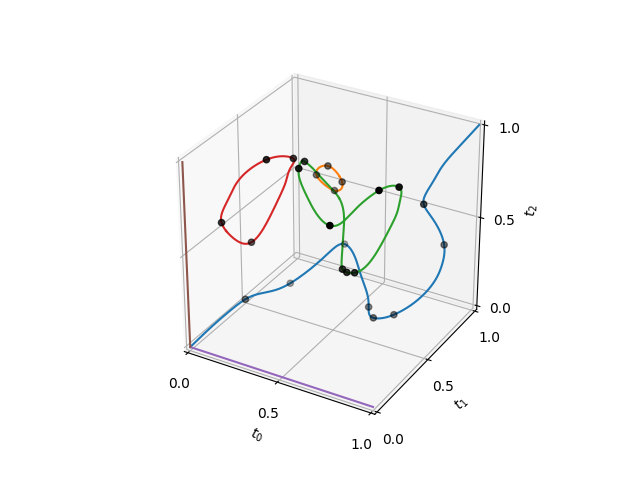
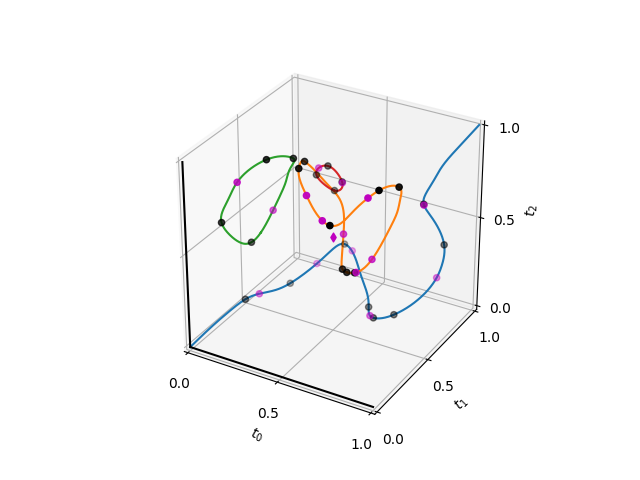
Add findCritFromPoint function and update related analysis and test files

diff --git a/src/curveCoupling/curveCoupling_Analysis/curveCouplingAnalysis.py b/src/curveCoupling/curveCoupling_Analysis/curveCouplingAnalysis.py
@@ -514,6 +514,88 @@ def findCritAlongDir(prb: curveCouplingProblem,
 
     return critPoints
 
+def findCritFromPoint(prb: curveCouplingProblem,
+                     t0: np.ndarray,
+                     iter_points: int = 10,
+                     tol: float = 1e-2) -> Tuple[np.ndarray, np.ndarray]:
+    """
+    Find criticial points along a given direction.
+
+    Args:
+        prb (curveCouplingProblem): The curve coupling problem instance.
+        iter_points (int): Number of iteration points.
+        tol (float): Tolerance.
+
+    Returns:
+        Tuple[np.ndarray, np.ndarray]: Found singularities and their outputs.
+    """
+
+    array_params = np.linspace(0.0, 1.0, iter_points)
+    combinations = itertools.product(range(iter_points), repeat=prb.numCurves)
+    N = prb.numCurves
+
+    def f_opt(x, return_jac=True):
+        if len(x) != 2*N:
+            raise ValueError(
+                f"The input should have length {2*N}, but got {len(x)}")
+
+        t = x[:N]
+        v = x[N:]
+
+        err = prb.computeConstraint(t)
+        jac = prb.computeConstraintJac(t)
+
+        y = np.concatenate(
+            [err, np.dot(jac, v), [np.dot(t-t0, v), np.sum(v**2)-1]])
+        if not return_jac:
+            return y
+
+        jac2 = prb.computeConstraintJac(t, nu=2)
+        jacTot = np.block([[jac, np.zeros_like(jac)],
+                           [jac2 * v[np.newaxis, :], jac],
+                           [np.reshape(v, (1, -1)), np.reshape(t-t0, (1, -1))],
+                           [np.zeros((1, N)), 2*np.reshape(v, (1, -1))]])
+
+        return y, jacTot
+    
+    def solve(comb):
+        param0 = np.array([array_params[i] for i in reversed(comb)])
+        J = prb.computeConstraintJac(param0)
+        nullspace = my_null_space(J)
+        v0 = nullspace[:, 0]
+        x0 = np.concatenate([param0, v0])
+
+        res = optimize.root(f_opt, x0, method='hybr', tol=1e-3, jac=True)
+
+        if res.success and np.linalg.norm(res.fun) < tol:
+            return res.x[:N]
+        return None
+        
+    results = Parallel(n_jobs=-1)(
+        delayed(solve)(comb) 
+        for comb in combinations
+    )
+
+    critPoints = [r for r in results if r is not None]        
+
+    # critPoints = []
+    # for comb in combinations:
+    #     param0 = np.array([array_params[i] for i in reversed(comb)])
+    #     J = prb.computeConstraintJac(param0)
+    #     nullspace = my_null_space(J)
+    #     v0 = nullspace[:, 0]
+
+    #     x0 = np.concatenate([param0, v0])
+
+    #     res = optimize.root(f_opt, x0, method='hybr', tol=1e-3, jac=True)
+
+    #     if res.success and np.linalg.norm(res.fun) < tol:
+    #         critPoints.append(res.x[:N])
+
+    critPoints = removeRepeats(np.array(critPoints))
+
+    return critPoints
+
 # def findIslands(prb: curveCouplingProblem,
 #                                ) -> Tuple[List[np.ndarray], List[np.ndarray]]:
 #     """
@@ -581,8 +663,9 @@ def findCritAlongDir(prb: curveCouplingProblem,
 #     return np.array(seeds)
 
 def solveCurveCoupling_Islands(prb: curveCouplingProblem,
-                               iter_points=10,
-                               iter_dirs=5,
+                               iter_points: int = 10,
+                               iter_dirs: int = 3,
+                               iter_centers: int = 3,
                                **kwargs
                                ) -> Tuple[List[np.ndarray], List[np.ndarray]]:
     """
@@ -592,12 +675,16 @@ def solveCurveCoupling_Islands(prb: curveCouplingProblem,
         prb (curveCouplingProblem): The curve coupling problem instance.
         iter_points (int): Number of iteration points.
         iter_dirs (int): Number of random directions to look for maxima.
+        iter_centers (int): Number of random centers to look for maxima.
 
     Returns:
         Tuple[List[np.ndarray], List[np.ndarray]]: Output curves and results in parametric space.
     """
 
     out, res = solveCurveCoupling(prb, **kwargs)
+    out_inv, res_inv = solveCurveCoupling(prb, initial_dir=-np.ones(prb.numCurves), **kwargs)
+    out = np.vstack((out_inv[::-1], out[1:]))
+    res = np.vstack((res_inv[::-1], res[1:]))
     out_lst = [out]
     res_lst = [res]
 
@@ -606,13 +693,19 @@ def solveCurveCoupling_Islands(prb: curveCouplingProblem,
         dists = [min_dist_point_to_set(x, r) for r in res_lst]
         return min(dists)
 
-    seek_dirs = np.random.randn(iter_dirs,prb.numCurves)
+    seek_dirs = np.random.randn(iter_dirs, prb.numCurves)
     seek_dirs /= np.linalg.norm(seek_dirs, axis=1)[:,np.newaxis]
     
     seeds = []
     for c in seek_dirs:
         points = findCritAlongDir(prb, c, iter_points=iter_points)
         seeds.append(points)
+
+    seek_centers = np.random.uniform(0.0, 1.0, (iter_centers, prb.numCurves))
+    for c in seek_centers:
+        points = findCritFromPoint(prb, c, iter_points=iter_points)
+        seeds.append(points)
+
 
     seeds = np.concatenate(seeds)
 

diff --git a/tests/Test_curveCoupling_FindIslands.py b/tests/Test_curveCoupling_FindIslands.py
@@ -1,7 +1,7 @@
 import numpy as np
 from curveCoupling.curveGenerators import *
 from curveCoupling import ndcurve, curveCouplingProblem_Split
-from curveCoupling.curveCoupling_Analysis import solveCurveCoupling_Islands, findCritAlongDir
+from curveCoupling.curveCoupling_Analysis import solveCurveCoupling_Islands, findCritAlongDir, findCritFromPoint
 from curveCoupling.utils.defaultPlots import plotResults
 from matplotlib import pyplot as plt
 import itertools
@@ -25,18 +25,23 @@ def run():
 
     prob = curveCouplingProblem_Split(curves,constraintConstant_lst, outputVectors_lst)
 
-    # seek_dirs = np.random.randn(2,prob.numCurves)
     seek_dirs = np.array([(1.0,0.0,0.0),(0.0,0.0,1.0)])
-
-    seeds = []
     seek_dirs /= np.linalg.norm(seek_dirs, axis=1)[:,np.newaxis]
+
+    seeds_dirs = []
     for c in seek_dirs:
-        points = findCritAlongDir(prob, c, iter_points=10)
-        seeds.append(points)
+        seeds_dirs.append(findCritAlongDir(prob, c))
+    seeds_dirs = np.concatenate(seeds_dirs)
 
-    seeds = np.concatenate(seeds)
+    # seek_centers = np.array([(0.0, 0.0, 0.0), (0.5, 0.5, 0.5)])
+    seek_centers = np.array([(0.5, 0.5, 0.5),])
+    seeds_centers = []
+    for c in seek_centers:
+        seeds_centers.append(findCritFromPoint(prob, c))
+    seeds_centers = np.concatenate(seeds_centers)
 
-    out_lst, res_lst = solveCurveCoupling_Islands(prob)
+
+    out_lst, res_lst = solveCurveCoupling_Islands(prob, iter_points=5)
     # out, res = solveCurveCoupling(prob)
     # out_lst = [out]
     # res_lst = [res]
@@ -49,11 +54,16 @@ def run():
         ax.plot(res[:,0], res[:,1], res[:,2])
 
 
-    axs[-1].scatter(seeds[:,0],seeds[:,1],seeds[:,2], color='k')
-    ax.scatter(seeds[:,0],seeds[:,1],seeds[:,2], color='k')
+    axs[-1].scatter(seeds_dirs[:,0],seeds_dirs[:,1],seeds_dirs[:,2], color='k')
+    axs[-1].scatter(seeds_centers[:,0],seeds_centers[:,1],seeds_centers[:,2], color='m')
+    ax.scatter(seeds_dirs[:,0],seeds_dirs[:,1],seeds_dirs[:,2], color='k')
+    ax.scatter(seeds_centers[:,0],seeds_centers[:,1],seeds_centers[:,2], color='m')
 
     for c in seek_dirs:
-        ax.plot((0, c[0]), (0, c[1]),(0, c[2]))
+        ax.plot((0, c[0]), (0, c[1]),(0, c[2]), color='k')
+
+    ax.scatter(seek_centers[:,0],seek_centers[:,1],seek_centers[:,2], marker='d', color='m')
+
 
     ax.set_xlim([0,1])
     ax.set_ylim([0,1])

diff --git a/src/curveCoupling/utils/num_utils.py b/src/curveCoupling/utils/num_utils.py
@@ -5,7 +5,8 @@ from typing import *
 def estimate_jacobian(
     func: Callable[[np.ndarray], np.ndarray],
     x: np.ndarray,
-    h: float = 1e-7
+    h: float = 1e-7,
+    **kwargs
 ) -> np.ndarray:
     """
     Estimate the Jacobian matrix of a vector-valued function using central finite differences.
@@ -19,7 +20,7 @@ def estimate_jacobian(
         A NumPy ndarray of shape (m, n) representing the approximated Jacobian.
     """
     n = x.size
-    m = func(x).size
+    m = func(x, **kwargs).size
     jacobian = np.zeros((m, n))
 
     for i in range(n):
@@ -28,8 +29,8 @@ def estimate_jacobian(
         x_plus[i] += h
         x_minus[i] -= h
 
-        f_plus = func(x_plus)
-        f_minus = func(x_minus)
+        f_plus = func(x_plus, **kwargs)
+        f_minus = func(x_minus, **kwargs)
 
         jacobian[:, i] = (f_plus - f_minus) / (2 * h)
 

diff --git a/src/curveCoupling/curveCoupling_Analysis/__init__.py b/src/curveCoupling/curveCoupling_Analysis/__init__.py
@@ -5,7 +5,7 @@ from curveCoupling.curveCoupling_Analysis.curveCouplingAnalysis_Equality import 
                                                                                  findCriticalPoints)
 from curveCoupling.curveCoupling_Analysis.curveCouplingAnalysis import (solveCurveCoupling_Islands,
                                                                         solveCurveCoupling_Singularities,
-                                                                        findSingularities, findCritAlongDir)
+                                                                        findSingularities, findCritAlongDir, findCritFromPoint)
 from curveCoupling.curveCoupling_Analysis.curveCouplingAnalysis_Split import (is_SolvableSequentially,
                                                                               solveCurveCoupling_Islands_Sequential)
 